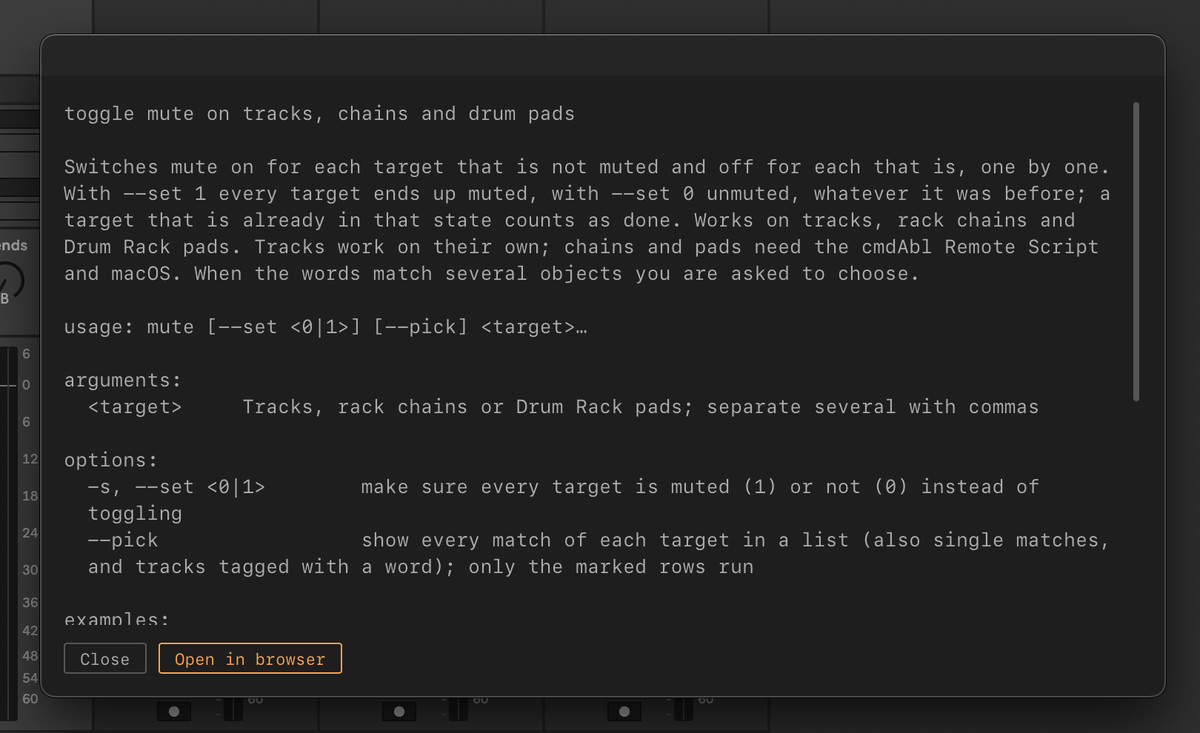
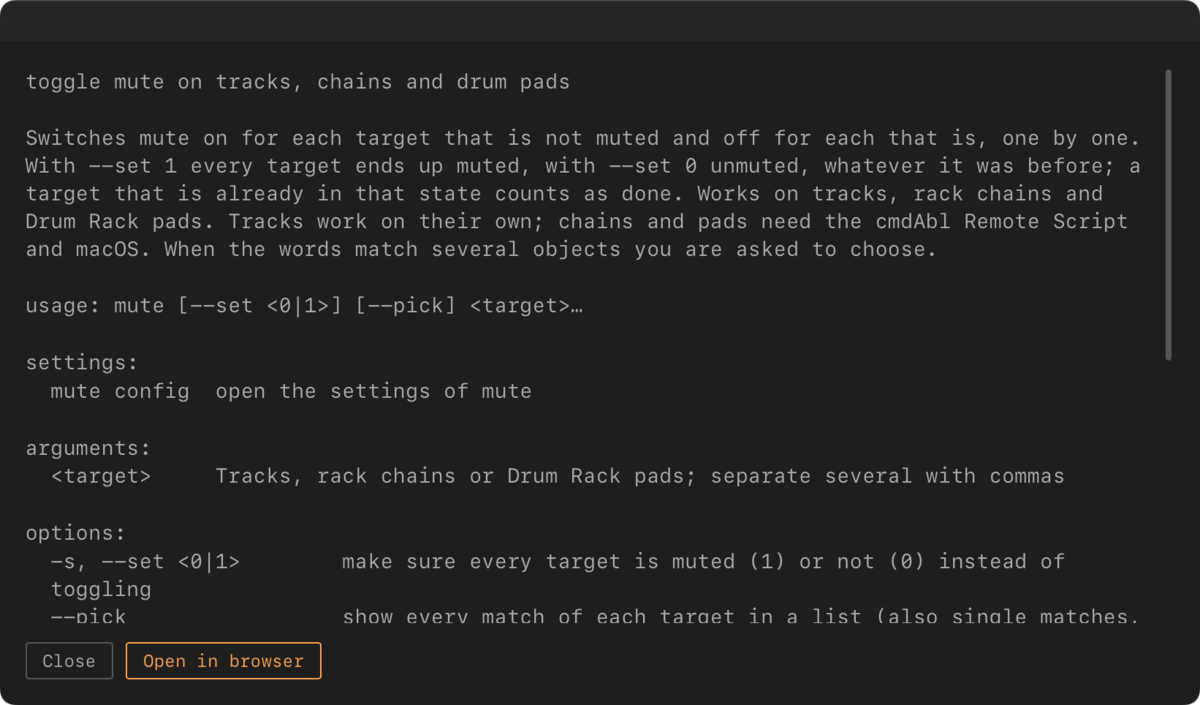
docs: refresh screenshots and GIFs for the 0.1.6 UI from the demo Set
Footer help line in the palette, help line on the tag board and pick lists,
settings block in the man pages. Alt texts, captions and examples now match the
demo Set (Kick, Bass, Lead, Percs, Synth). find-nested, vol-clip and vol-stop
are kept from a larger Set and say so.

diff --git a/docs/using.md b/docs/using.md
@@ -49,7 +49,7 @@ only where nothing is typed yet.
 
 A name with spaces is quoted for you.
 
-![The palette after `tag --rename `: the five tags of the Set with their track counts, and the grey hint `<old>`.](assets/images/complete-rename.png)
+![The palette after `tag --rename `: the three tags of the Set, bass, drums and synth, with their track counts, and the grey hint `<old>`.](assets/images/complete-rename.png)
 
 ### The footer: what the line means
 
@@ -96,7 +96,7 @@ A command takes objects as text. cmdAbl reads that text as follows:
 
 When a name matches more than one object, cmdAbl asks. It never picks one for you.
 
-![The palette with kic typed: the track Kick and the devices below it, each with its path in grey, then the Magic Mid devices of the main track and the command goto](assets/images/palette-objects.png)
+![The palette with kic typed: the track Kick and its device Hihat Open 909, then the Magic Mid devices of the main track with their path in grey, and the commands goto, find and lom](assets/images/palette-objects.png)
 
 *Type part of a name, and the palette lists the objects that match.*
 
@@ -153,7 +153,7 @@ Racks can sit inside a chain of another rack. An Instrument Rack whose chain hol
 
 ![The find pick list headed find: "kick" — 16 matches: the Kick track and its devices, and the chains and devices of a Drum Rack nested in an Instrument Rack, each row with its path and its kind](assets/images/find-nested.png)
 
-*`find kick` reaches the pads of a Drum Rack nested in an Instrument Rack.*
+*`find kick` reaches the pads of a Drum Rack nested in an Instrument Rack. The picture comes from a Set with more tracks than the other examples on this page.*
 
 Selecting a pad or a chain does not change how the track is shown. Add `--unfold` to `goto` or `find` to show the
 track's chains as columns in the Session mixer. Live stores this view state with the Set, so the Set counts as
@@ -180,7 +180,7 @@ Without a pattern, `find` needs `-L` or one of `-t`, `-d` and `-c`; a bare `find
 `-L` takes a whole number from 0 to 12 with a pattern, and from 1 without one. For finding tracks by tag, see
 [Tags](#use-tags-as-targets).
 
-![The find pick list headed find: — 11 matches: every track of the Set with its tags, such as #synth on Synth and #bass #drums on Bass, the three return tracks, and the main track last](assets/images/find-top.png)
+![The find pick list headed find: — 6 matches: every track of the Set with its tags, such as #drums on Kick and #bass on Bass, and the main track last](assets/images/find-top.png)
 
 *`find -L 1` lists the top-level tracks, each with its tags.*
 
@@ -201,7 +201,7 @@ want explicitly, like Cmd-clicking the buttons in Live.
 
 `vol` moves track faders in dB (decibels). It needs no Remote Script.
 
-- `vol <dB> <target>…` moves each fader by `<dB>` from where it is. With Kick at -6 dB and Perc at -3 dB,
+- `vol <dB> <target>…` moves each fader by `<dB>` from where it is. With Kick at -6 dB and Percs at -3 dB,
   `vol -6 #drums` gives -12 and -9, so the balance between them stays.
 - `vol --set <dB> <target>…` (short `-s`) puts every fader at that level. `vol --set -inf /Lead` silences the Lead
   track.
@@ -224,7 +224,7 @@ want explicitly, like Cmd-clicking the buttons in Live.
   /Lead, …". It names at most five tracks, then "+N more"; the log has them all. A fader already at -inf is left
   out.
 
-  ![A message window: limit reached at +6 dB (the maximum): /Bass, /Lead, /Guitar, /Kick, /Snare, +1 more](assets/images/vol-clip.png)
+  ![A message window, from a Set with more tracks: limit reached at +6 dB (the maximum): /Bass, /Lead, /Guitar, /Kick, /Snare, +1 more](assets/images/vol-clip.png)
 - A fader at -inf stays there with a relative step. Only `--set` brings it back.
 - `--clip` together with `--set` is a usage error, and so is a relative `-inf`; use `vol --set -inf`.
 
@@ -291,14 +291,14 @@ tracks.
   chains and pads of the tagged tracks.
 - Without the Remote Script, `#` answers that the Remote Script is not running. Plain words work as before.
 
-![The find pick list for find #drums: six tracks, Bass, Lead, Guitar, Kick, Snare and Perc, each with the tag drums](assets/images/find-tags.png)
+![The find pick list for find #drums: two tracks, Kick and Percs, each with the tag drums](assets/images/find-tags.png)
 
 ### The tag board
 
 `tag -l` (or `tag --list`) opens the tag board. It shows one section per tag. The board opens with the cursor in the
 **New tag** row.
 
-![Screen recording of the tag board (tag -l): "analog" is typed into the add field of #drums, → steps into the suggestions and Enter adds three matching tracks while the text stays; "vermona drm" and Enter add one more; Apply shows 4 changes](assets/images/tags.gif)
+![Screen recording of the tag board (tag -l): "ba" is typed into the add field of #drums, the suggestion /Bass appears and Enter adds it as a chip with a dashed ring; the text stays, "syn" is typed in its place and Enter adds /Synth; the Apply button reads "Apply (2 changes)"](assets/images/tags.gif)
 
 *`tag -l`: add several tracks to #drums by typing and Enter. Nothing changes in Live until you press Apply.*
 
@@ -351,7 +351,7 @@ empty **add…** input. The section is struck through, and the footer says what 
 unmarks it. When you press **Apply**, a bar in the footer asks "Remove #fx from N tracks?". **Cancel** is the
 default (`Esc` too) and returns you to editing; **Remove and apply** goes on. A single chip's **×** asks nothing.
 
-![The tag board: one section per tag, with its tracks as chips and an add field; the untagged tracks are listed at the bottom](assets/images/tag-board.png)
+![The tag board: one section per tag, bass, drums and synth, with its tracks as chips and an add field, and the key help line, Settings, Apply and Close at the bottom](assets/images/tag-board.png)
 
 Live does not change until you press **Apply (N changes)**. Then the board closes. **Close** with nothing applied
 changes nothing and shows no message.
@@ -409,9 +409,9 @@ any click except Close, cancels the warning. The footer shows the main keys.
 
 The pair to remember: `tag /Lead` picks the tags of one track, and `tag -e fx` picks the tracks of one tag.
 
-![The pick list for tag --edit #drums: all regular tracks; Synth and Lead (tagged drums) and Kick, Snare and Perc are marked, and the boxes show the result of Enter: drums off for Synth and Lead, on for Kick, Snare and Perc](assets/images/tag-pick.png)
+![The pick list for tag --edit #drums: the five regular tracks Kick, Bass, Lead, Percs and Synth, each with its tags; Kick and Bass are marked with a dashed ring, and the boxes show the result of Enter: drums off for Kick, on for Bass](assets/images/tag-pick.png)
 
-![The tag list for tag -e: the tags bass, drums, fx, lead and synth, each with its track count](assets/images/tag-list.png)
+![The tag list for tag -e: the tags bass, drums and synth, each with its track count](assets/images/tag-list.png)
 
 *`tag -e #drums` and the tag list of a bare `tag -e`.*
 
@@ -470,7 +470,7 @@ shows how cmdAbl's ports and Remote Script operations map to the Live Object Mod
 - The web manuals need an internet connection. The command page does not.
 - An unknown command answers with close matches under "Did you mean".
 
-![The man page for mute inside Live: the summary, usage, arguments and options, with Close and Open in browser buttons](assets/images/man-page.png)
+![The man page for mute inside Live: the summary, usage, the settings line `mute config`, arguments and options, with Close and Open in browser buttons](assets/images/man-page.png)
 
 ## A note per Set: `note`
 
@@ -740,7 +740,7 @@ A remembered line keeps:
 
 The history is kept in memory. It is gone when cmdAbl restarts.
 
-![The empty palette: the commands help, cmdabl, history, goto, find, next, prev and mute, with no rows of recent commands](assets/images/palette-empty.png)
+![The empty palette: the commands cmdabl, history, goto, find, next, prev, mute and solo, each with its summary, and the key help line at the bottom, with no rows of recent commands](assets/images/palette-empty.png)
 
 *With no history, the empty palette lists only the commands.*
 
@@ -758,6 +758,6 @@ The `history` command manages the list:
 
 The [command reference](reference/commands.md) has the full usage.
 
-![The man page of history inside Live: the summary, usage, the subcommands clear, forget and restore, the web address, and the Close and Open in browser buttons](assets/images/man-history.png)
+![The man page of history inside Live: the summary, usage, the subcommands clear, forget and restore, the settings line `history config`, the web address, and the Close and Open in browser buttons](assets/images/man-history.png)
 
 *`man history` shows the page of the history command.*

diff --git a/docs/getting-started.md b/docs/getting-started.md
@@ -113,7 +113,7 @@ from step 2 works too.
 | `↑` / `↓` | moves through the list |
 | `Esc` | closes the palette without running anything |
 
-![The palette open with the text sn typed: the track Snare and the devices below it appear as rows, with their path in grey](assets/images/palette.png)
+![The palette open with the text perc typed: the track Percs and the devices below it appear as rows, with their path in grey, followed by a device on the track Lead, and the footer lists the keys Tab, ↑↓, Enter and Esc](assets/images/palette.png)
 
 *Type part of a name: tracks, devices and chains appear as rows. Enter selects the highlighted one.*
 
@@ -126,14 +126,14 @@ Type each one in the palette and press `Enter`.
 - `goto /Lead` selects the track Lead in Live. Partial names work too: `goto lead`.
 - `mute /Bass` mutes the track Bass, and again unmutes it. `mute --set 1 /Bass` mutes it whatever its state;
   `mute --set 0 /Bass` unmutes it.
-- Tag two of your tracks, for example `tag /Kick drums` and `tag /Snare drums`. Then `mute drums` mutes both at once.
+- Tag two of your tracks, for example `tag /Kick drums` and `tag /Percs drums`. Then `mute drums` mutes both at once.
 - `tag -l` opens the tag board, where you see every tag and its tracks and change them.
 
 When a name matches more than one object, cmdAbl shows a **pick list** instead of guessing. Type to filter, press
 `↑` and `↓` to move, `Enter` to choose and `Esc` to cancel. Commands that take several tracks, such as `mute`, let
 you mark more than one row with `Tab`.
 
-![The pick list for mute --pick #drums, with six tracks: Bass, Lead, Guitar, Kick, Snare and Perc, each with its tags; the speaker buttons of Bass, Guitar and Kick are marked with a dashed ring](assets/images/pick-list.png)
+![The pick list for mute --pick #drums, with two tracks, Kick and Percs, each with its tag; the speaker button of Kick is marked with a dashed ring](assets/images/pick-list.png)
 
 *A name that matches several tracks opens the pick list. The line above the filter shows the command that Enter
 will run, and the buttons show the state that Enter would set.*

diff --git a/README.md b/README.md
@@ -9,7 +9,7 @@
 
 📖 [Read the documentation](https://marvinhauke.github.io/cmdAbl/) · 🚀 [Get started](https://marvinhauke.github.io/cmdAbl/getting-started/)
 
-![Screen recording of the palette: mute drums mutes the drum tracks, solo !#drums solos the other tracks, and mute --pick #drums opens a pick list where rows are marked and Enter applies](docs/assets/images/hero.gif)
+![Screen recording of the palette: mute drums mutes the drum tracks, solo !#drums solos the other tracks, and mute --pick #drums opens a pick list where a row is marked and Enter applies; a help line at the bottom of the palette names the command and its arguments](docs/assets/images/hero.gif)
 
 ## What it does for you
 
@@ -18,9 +18,9 @@
 - **Asks instead of guessing.** If a name fits several tracks, cmdAbl shows a pick list. Live changes only when you press `Enter`.
 - **Installs community extensions.** The `pakabl` command lists extensions from a curated list and installs them for you.
 
-![Screen recording of the tag board (tag -l): "analog" is typed into the add field of #drums, → steps into the suggestions and Enter adds three matching tracks while the text stays; "vermona drm" and Enter add one more; Apply shows 4 changes](docs/assets/images/tags.gif)
+![Screen recording of the tag board (tag -l): "ba" is typed into the add field of #drums, the suggestion /Bass appears and Enter adds it as a chip with a dashed ring; the text stays, "syn" is typed in its place and Enter adds /Synth; the Apply button reads "Apply (2 changes)"](docs/assets/images/tags.gif)
 
-![The pick list for tag --edit #drums: all regular tracks; Synth and Lead (tagged drums) and Kick, Snare and Perc are marked, and the boxes show the result of Enter: drums off for Synth and Lead, on for Kick, Snare and Perc](docs/assets/images/tag-pick.png)
+![The pick list for tag --edit #drums: the five regular tracks Kick, Bass, Lead, Percs and Synth, each with its tags; Kick and Bass are marked with a dashed ring, and the boxes show the result of Enter: drums off for Kick, on for Bass](docs/assets/images/tag-pick.png)
 
 ## Before you start
 

diff --git a/docs/index.md b/docs/index.md
@@ -2,9 +2,9 @@
 
 **A command palette for Ableton Live.** Press `:` while Live is focused, type a command, and it acts on your Set.
 
-![Screen recording of the palette: mute drums mutes the drum tracks, solo !#drums solos the other tracks, and mute --pick #drums opens a pick list where rows are marked and Enter applies](assets/images/hero.gif)
+![Screen recording of the palette: mute drums mutes the drum tracks, solo !#drums solos the other tracks, and mute --pick #drums opens a pick list where a row is marked and Enter applies; a help line at the bottom of the palette names the command and its arguments](assets/images/hero.gif)
 
-![Screen recording: the drum tracks sit at different levels; vol -6 #drums lowers all their faders by 6 dB and vol 4 #drums raises them by 4 dB, so they move like one fader and the balance stays; then note opens the Mix notes of the Set](assets/images/vol-note.gif)
+![Screen recording: the drum tracks Kick and Percs sit at different levels, -9 and -3 dB; vol -6 #drums lowers both faders by 6 dB, to -15 and -9, and vol 4 #drums raises both by 4 dB, to -11 and -5, so they move like one fader and the balance stays](assets/images/vol-note.gif)
 
 ## Why cmdAbl
 
@@ -25,7 +25,7 @@ cmdabl setup                  set up the keyboard key and the Remote Script (onc
 goto /Lead                    select the track Lead
 mute /Bass                    toggle the mute of the track Bass
 mute --set 0 /Bass            make sure Bass is not muted, whatever its state is now
-tag /Kick drums               tag the track Kick as drums (do the same for Snare)
+tag /Kick drums               tag the track Kick as drums (do the same for Percs)
 mute drums                    mute every track tagged drums
 tag -l                        open the tag board
 ```
